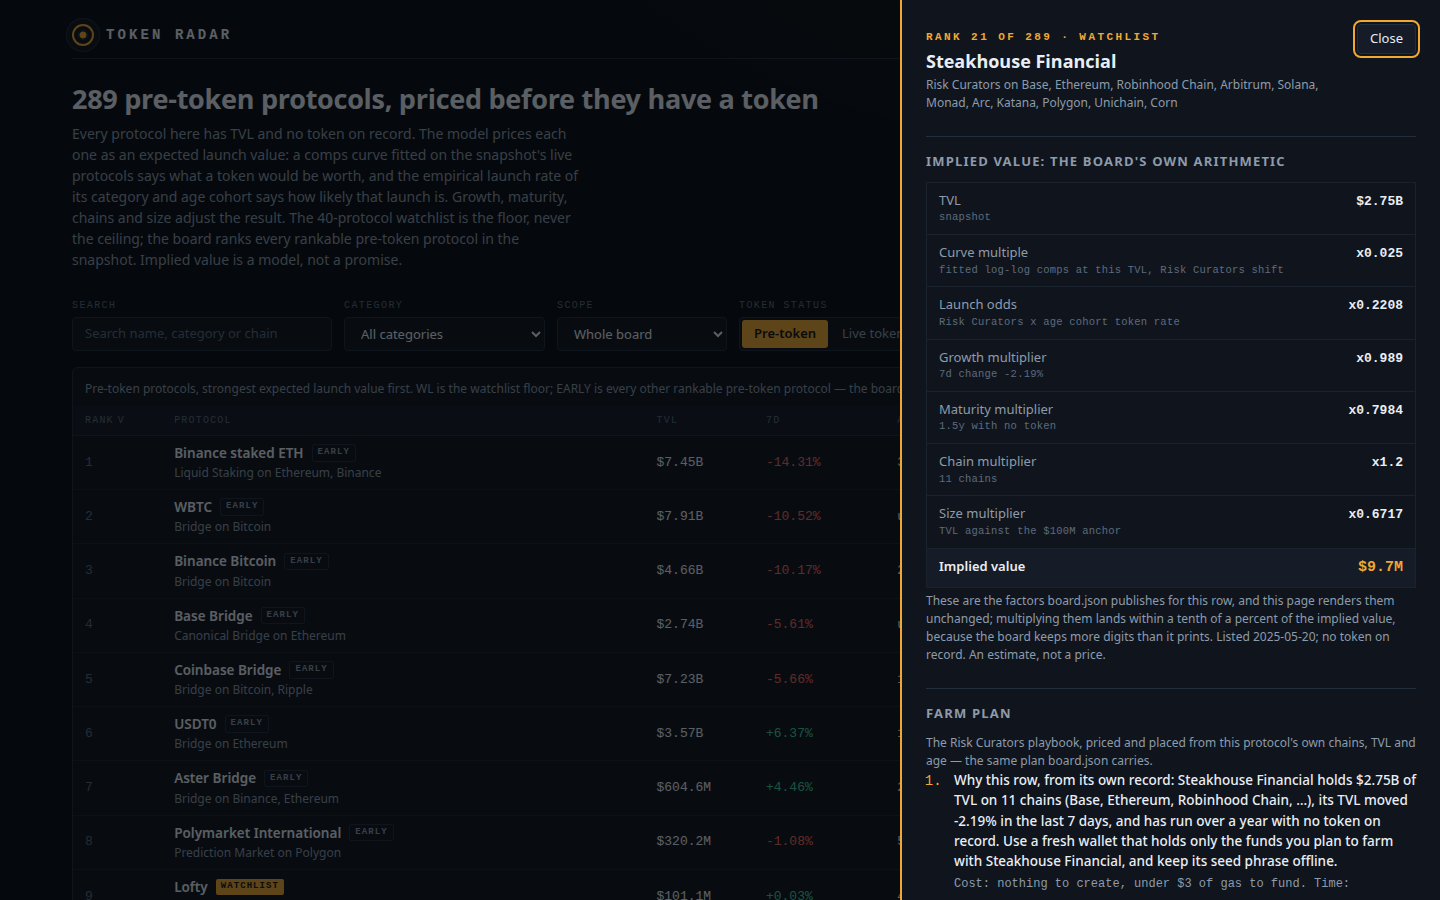
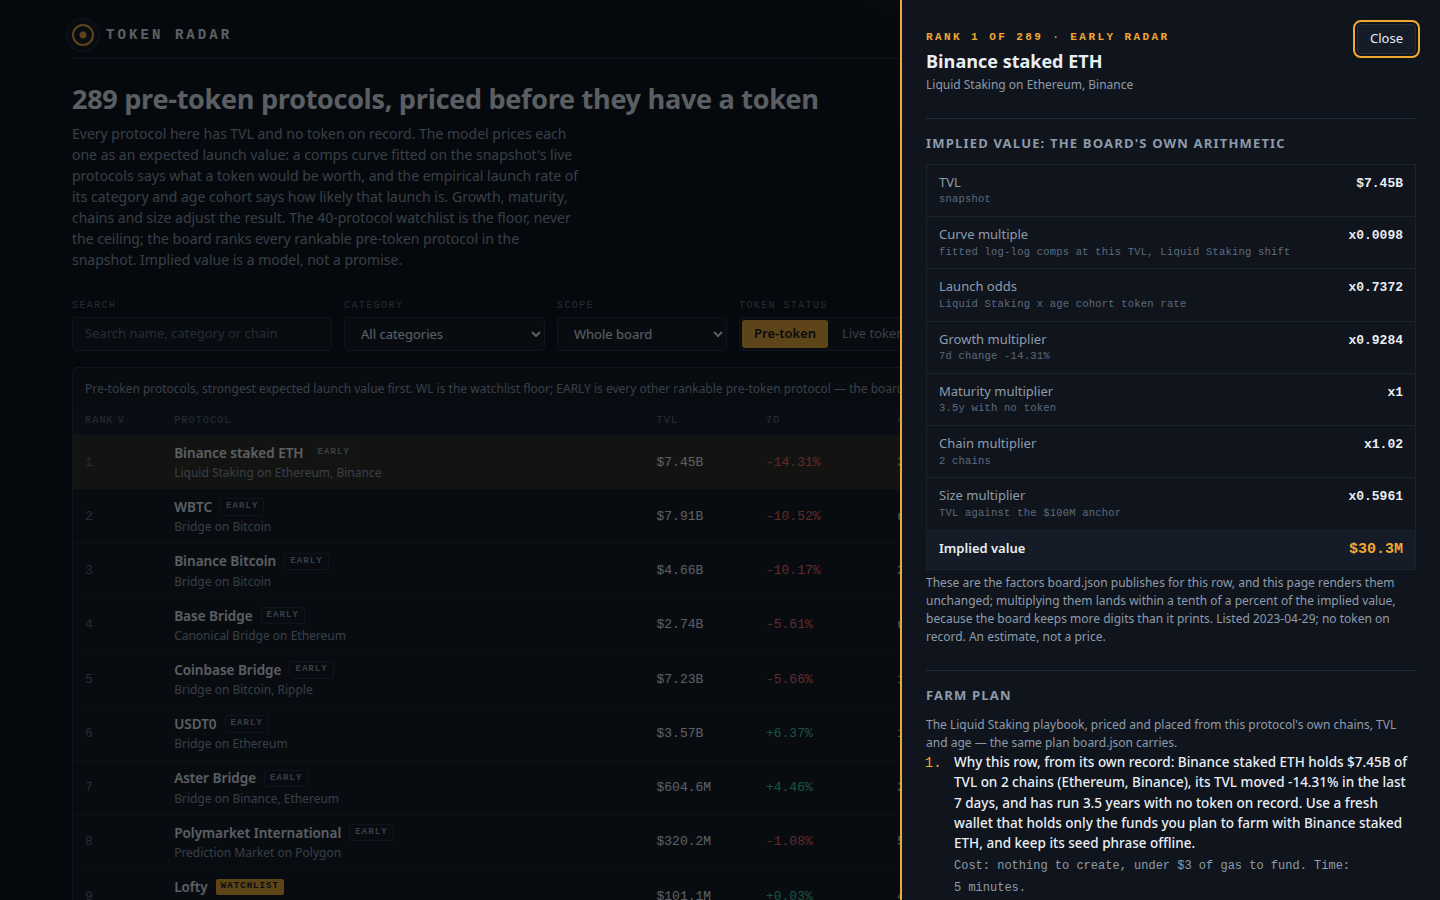
radar-5: model panel evidence tables (odds by age cohort, category evidence for the curve), fourth screenshot (filtered view), farm funding and hold steps placed from each protocol's own chains and age; pricing and board values unchanged

diff --git a/lib/model.ts b/lib/model.ts
@@ -1,7 +1,11 @@
-// The token radar's model (radar-4): one snapshot of the protocol universe in, one ranked board out.
-// radar-4 keeps radar-3's pricing exactly as it was — the same fitted curve, the same launch
-// odds, the same multipliers — and changes only the farm plans: every row now opens with a step
-// written from that protocol's own record, where radar-3 wrote that step only for the top 20.
+// The token radar's model (radar-5): one snapshot of the protocol universe in, one ranked board out.
+// radar-5 keeps radar-4's pricing exactly as it was — the same fitted curve, the same launch
+// odds, the same multipliers, the same board values in the same order — and changes what the
+// entry shows and how its plans read. The model panel now prints the evidence under the two
+// fitted layers (the launch rate of each age cohort, and each category's live peers, their
+// median multiple and the intercept shift the curve grants it), and a farm plan's funding and
+// hold steps are placed from the protocol's own record — its chains and its age — the way
+// radar-4 already wrote every plan's opening step from that record.
 //
 // The board ranks EVERY rankable pre-token protocol in the snapshot (pre-token: no market cap, no
 // CoinGecko id, no symbol on record; rankable: not a CEX, not a versioned pool of another protocol).
@@ -104,7 +108,7 @@ export const MODEL: ModelConstants = {
 };
 
 /** The model's version label: the dashboard names it and the rules quote it. */
-export const MODEL_VERSION = 'radar-4';
+export const MODEL_VERSION = 'radar-5';
 
 /** Age cohorts for the launch-odds layer, in days: under a year, one to two, two to three, older. */
 export const ODDS_AGE_BUCKETS = [365, 730, 1095];
@@ -209,6 +213,21 @@ export interface OddsSummary {
   global_rate: number;
   /** How many dated protocols the cohort rates were computed from. */
   cohorts: number;
+  /** The four age cohorts, youngest first: dated protocols in each and the shrunk token rate. */
+  buckets: { n: number; rate: number }[];
+}
+
+/** One category's evidence row for the model panel: its live peers, their pricing, its curve shift, and how many board rows it carries. */
+export interface CategoryEvidence {
+  category: string;
+  /** Live peers in this category that carry both a market cap and a TVL. */
+  peers: number;
+  /** The median mcap/TVL of those peers, winsorised the way the model winsorises. */
+  median_multiple: number;
+  /** The curve's intercept for this category as a multiple of the bare curve (1 when it earned no shift). */
+  curve_shift_x: number;
+  /** Board rows ranked in this category. */
+  ranked: number;
 }
 
 /** The model's runtime self-validation on the sealed snapshot (see validateModel). */
@@ -244,6 +263,7 @@ export interface RadarData {
   odds: OddsSummary;
   validation: ValidationSummary;
   coverage: CoverageSummary;
+  categories: CategoryEvidence[];
   watchlist_size: number;
   board_size: number;
   early_size: number;
@@ -292,6 +312,8 @@ export interface PeerMultiples {
   peers: number;
   /** The shrunk, clamped multiple for one category; the global when the category has no peers. */
   forCategory: (category: string | null) => number;
+  /** Each peer category's own evidence: how many live peers it has and their median multiple. */
+  categoryStats: { category: string; peers: number; median_multiple: number }[];
 }
 
 /**
@@ -329,7 +351,10 @@ export function peerMultiples(snapshot: Snapshot, model: ModelConstants = MODEL)
     cache.set(category, mult);
     return mult;
   };
-  return { global, peers: peers.length, forCategory };
+  const categoryStats = [...byCategory.entries()]
+    .map(([category, list]) => ({ category, peers: list.length, median_multiple: median(list) ?? global }))
+    .sort((x, y) => y.peers - x.peers || (x.category < y.category ? -1 : 1));
+  return { global, peers: peers.length, forCategory, categoryStats };
 }
 
 /** The snapshot's live peers: a token on record, a market cap and a TVL, and not a CEX. */
@@ -362,6 +387,8 @@ export interface CompsFit {
   peers: number;
   impliedFor: (p: SnapshotProtocol) => number;
   multFor: (p: SnapshotProtocol) => number;
+  /** The shrunk per-category intercept shift in log space; 0 when the category earned none. */
+  shiftFor: (category: string | null) => number;
 }
 
 /**
@@ -380,6 +407,7 @@ export function fitComps(snapshot: Snapshot, excludeSlug?: string, model: ModelC
       peers: peers.length,
       impliedFor: (p) => p.tvl_usd * model.base_multiple,
       multFor: () => model.base_multiple,
+      shiftFor: () => 0,
     };
   }
   const xs = peers.map((p) => Math.log(p.tvl_usd));
@@ -406,7 +434,15 @@ export function fitComps(snapshot: Snapshot, excludeSlug?: string, model: ModelC
   }
   const impliedFor = (p: SnapshotProtocol): number =>
     p.tvl_usd > 0 ? Math.exp(a + b * Math.log(p.tvl_usd) + (p.category === null ? 0 : shifts.get(p.category) ?? 0)) : 0;
-  return { a, b, r2: ssTot > 0 ? 1 - ssRes / ssTot : 0, peers: peers.length, impliedFor, multFor: (p) => (p.tvl_usd > 0 ? impliedFor(p) / p.tvl_usd : 0) };
+  return {
+    a,
+    b,
+    r2: ssTot > 0 ? 1 - ssRes / ssTot : 0,
+    peers: peers.length,
+    impliedFor,
+    multFor: (p) => (p.tvl_usd > 0 ? impliedFor(p) / p.tvl_usd : 0),
+    shiftFor: (category) => (category === null ? 0 : shifts.get(category) ?? 0),
+  };
 }
 
 /** The launch-odds layer: the empirical token rate of a protocol's category x age cohort. */
@@ -416,6 +452,8 @@ export interface LaunchOdds {
   /** How many dated protocols stand behind the cohort rates. */
   cohorts: number;
   forProtocol: (p: SnapshotProtocol) => number;
+  /** The four age cohorts in ODDS_AGE_BUCKETS order: dated protocols in each, and its shrunk rate. */
+  buckets: { n: number; rate: number }[];
 }
 
 /** Which age cohort a day count falls in: 0 youngest .. 3 oldest, per ODDS_AGE_BUCKETS. */
@@ -467,7 +505,8 @@ export function launchOdds(snapshot: Snapshot, only?: Set<string>): LaunchOdds {
     const cell = cells.get(`${p.category}|${b}`);
     return ((cell?.sum ?? 0) + 10 * bucketRate(b)) / ((cell?.n ?? 0) + 10);
   };
-  return { global, cohorts: dated.length, forProtocol };
+  const buckets = [0, 1, 2, 3].map((b) => ({ n: bucketN[b]!, rate: bucketRate(b) }));
+  return { global, cohorts: dated.length, forProtocol, buckets };
 }
 
 /**
@@ -856,7 +895,18 @@ function spotlightText(p: SnapshotProtocol, age: number | null): string {
  * never from a hand-written list of names. Every row opens with a step written from the
  * protocol's own figures — its TVL, chains, seven-day move and age — and the wallet-hygiene
  * advice rides at the end of that same step, so no row on the board opens generically.
+ * The middle of the plan is placed from the record too: the funding step names the protocol's
+ * second chain when it has one — and says plainly when it runs on one chain alone — and the
+ * hold step quotes the protocol's own age, because the hold window is sized from that age.
  */
+/** How long a protocol has run, in words a plan can quote: days under a year, years beyond two. */
+function agePhraseFor(age: number | null): string {
+  if (age === null) return 'an unrecorded span';
+  if (age >= 730) return `${(age / 365).toFixed(1)} years`;
+  if (age >= 365) return 'over a year';
+  return `${age} days`;
+}
+
 export function farmSteps(p: SnapshotProtocol, age: number | null): FarmStep[] {
   const chain = chainOf(p);
   const x: PlanContext = {
@@ -875,7 +925,10 @@ export function farmSteps(p: SnapshotProtocol, age: number | null): FarmStep[] {
       time: '5 minutes',
     },
     {
-      text: `Fund the wallet on ${x.chain} before you start: bridge or buy in enough for the position plus a gas buffer, and do one tiny test transaction first.`,
+      text:
+        x.secondChain !== null
+          ? `Fund the wallet on ${x.chain} before you start: bridge or buy in enough for the position plus a gas buffer, and do one tiny test transaction first. ${p.name} also runs on ${x.secondChain}, so if ${x.chain} gas spikes, the same plan works from that side instead.`
+          : `Fund the wallet on ${x.chain} before you start: bridge or buy in enough for the position plus a gas buffer, and do one tiny test transaction first. ${p.name} runs on ${x.chain} alone, so there is no cheaper side door — the wallet has to be funded on that chain.`,
       cost: `about $${x.gas} of gas on ${x.chain}`,
       time: '10 minutes',
     },
@@ -895,7 +948,7 @@ export function farmSteps(p: SnapshotProtocol, age: number | null): FarmStep[] {
       time: '10 minutes a week',
     },
     {
-      text: `Hold the position for at least ${x.hold} days so the activity is counted in more than one snapshot; younger protocols get the longer window because their books are thinner.`,
+      text: `Hold the position for at least ${x.hold} days so the activity is counted in more than one snapshot. ${p.name} has run ${agePhraseFor(age)} with no token on record, and the window is sized from that age — younger protocols get the longer window because their books are thinner.`,
       cost: `the $${x.capital} stays in the position`,
       time: `${x.hold} days`,
     },
@@ -959,7 +1012,28 @@ export function buildRadar(snapshot: Snapshot, model: ModelConstants = MODEL): {
   const early = board.filter((r) => !snapshot.watchlist.includes(r.slug)).length;
   const fit = fitComps(snapshot, undefined, model);
   const odds = launchOdds(snapshot);
+  const multiples = peerMultiples(snapshot, model);
   const liveTotal = snapshot.protocols.filter((p) => !isPreToken(p)).length;
+  const rankedByCategory = new Map<string, number>();
+  for (const r of board) {
+    const key = r.category ?? 'Other';
+    rankedByCategory.set(key, (rankedByCategory.get(key) ?? 0) + 1);
+  }
+  const statByCategory = new Map(multiples.categoryStats.map((s) => [s.category, s]));
+  const categories: CategoryEvidence[] = [...new Set([...statByCategory.keys(), ...rankedByCategory.keys()])]
+    .map((category) => {
+      const stat = statByCategory.get(category);
+      return {
+        category,
+        peers: stat?.peers ?? 0,
+        median_multiple: round4(stat?.median_multiple ?? 0),
+        curve_shift_x: round4(Math.exp(fit.shiftFor(category))),
+        ranked: rankedByCategory.get(category) ?? 0,
+      };
+    })
+    .filter((c) => c.peers > 0 || c.ranked > 0)
+    .sort((x, y) => y.ranked - x.ranked || y.peers - x.peers || (x.category < y.category ? -1 : 1))
+    .slice(0, 14);
   const radar: RadarData = {
     as_of: snapshot.as_of,
     source: snapshot.source,
@@ -967,7 +1041,11 @@ export function buildRadar(snapshot: Snapshot, model: ModelConstants = MODEL): {
     model,
     model_version: MODEL_VERSION,
     fit: { a: round4(fit.a), b: round4(fit.b), r2: round4(fit.r2), peers: fit.peers },
-    odds: { global_rate: round4(odds.global), cohorts: odds.cohorts },
+    odds: {
+      global_rate: round4(odds.global),
+      cohorts: odds.cohorts,
+      buckets: odds.buckets.map((b) => ({ n: b.n, rate: round4(b.rate) })),
+    },
     validation: validateModel(snapshot, model),
     coverage: {
       total: snapshot.protocols.length,
@@ -975,6 +1053,7 @@ export function buildRadar(snapshot: Snapshot, model: ModelConstants = MODEL): {
       live: liveTotal,
       excluded: snapshot.protocols.length - board.length - liveTotal,
     },
+    categories,
     watchlist_size: snapshot.watchlist.length,
     board_size: board.length,
     early_size: early,

diff --git a/dashboard/app.js b/dashboard/app.js
@@ -1,4 +1,4 @@
-// Token Radar (radar-4): a dark console for the pre-token board. It reads window.RADAR
+// Token Radar (radar-5): a dark console for the pre-token board. It reads window.RADAR
 // (written beside dashboard/ by main.ts from the same board that becomes board.json) and renders the
 // ranked board, a filterable table and a per-protocol detail drawer. The page derives nothing of its
 // own: every implied value, every multiplier and every farm step it shows is the board's own, carried
@@ -246,6 +246,19 @@
     );
   }
 
+  function evidenceTable(head, rows) {
+    return el('table', { class: 'evidence' },
+      el('thead', null, el('tr', null, head.map(function (h, i) {
+        return el('th', i === 0 ? { text: h } : { class: 'num', text: h });
+      }))),
+      el('tbody', null, rows.map(function (cells) {
+        return el('tr', null, cells.map(function (c, i) {
+          return el('td', i === 0 ? { text: c } : { class: 'num', text: c });
+        }));
+      }))
+    );
+  }
+
   function modelPanel() {
     var m = DATA.model;
     var f = DATA.fit;
@@ -272,6 +285,15 @@
         el('br'),
         'check    = leave-one-out median pricing error: curve ' + v.curve_loo_error_x + 'x vs category medians ' + v.median_loo_error_x + 'x; launch-odds Brier ' + v.odds_brier + ' vs base rate ' + v.odds_base_brier + ' on a time-split holdout of ' + v.odds_test_n + ' protocols'
       ),
+      el('p', { class: 'sub', text: 'The odds layer, cohort by cohort: the shrunk token rate each age band shows across the dated protocols of the snapshot, and how many protocols stand behind each rate. Young cohorts launch less often than old ones — that gradient, not a guess, is what discounts the curve value of a young protocol.' }),
+      evidenceTable(['Age cohort', 'Dated protocols', 'Token rate'], ['Under 1 year', '1–2 years', '2–3 years', 'Over 3 years'].map(function (label, i) {
+        var b = DATA.odds.buckets[i];
+        return [label, String(b.n), (b.rate * 100).toFixed(1) + '%'];
+      })),
+      el('p', { class: 'sub', text: 'The price layer, category by category: the live peers behind each part of the curve, the multiple they trade at, the intercept shift the fit grants the category (x1 is no shift — the category rides the bare curve), and how many board rows that part of the curve prices. A category with no shift is not ignored; it is priced by the pooled curve because its own peers are too few to trust.' }),
+      evidenceTable(['Category', 'Live peers', 'Median multiple', 'Curve shift', 'Board rows'], DATA.categories.map(function (ct) {
+        return [ct.category, String(ct.peers), fmtMult(ct.median_multiple), fmtMult(ct.curve_shift_x), String(ct.ranked)];
+      })),
       el('p', { class: 'sub', text: 'The board ranks every rankable pre-token protocol in the snapshot. Whole-snapshot accounting: ' + c.ranked + ' ranked + ' + c.live + ' already holding a token (set aside in the Live token view; the priced ones are the curve\'s peer set) + ' + c.excluded + ' excluded with reason (centralised exchanges and versioned pools of other protocols) = ' + c.total + ' protocols.' })
     );
   }

diff --git a/dashboard/app.css b/dashboard/app.css
@@ -152,6 +152,11 @@ tbody tr[data-selected="true"]{background:var(--accent-dim)}
   overflow-wrap:anywhere; background:var(--canvas);
   border:1px solid var(--border-soft); padding:var(--step-3) var(--step-4);
 }
+.evidence{font-size:12.5px}
+.evidence th.num,.evidence td.num{text-align:right}
+.evidence tbody tr{cursor:default}
+.evidence tbody tr:hover{background:none}
+.evidence td:first-child{font-weight:600}
 .empty{padding:var(--step-7) var(--step-5); text-align:center; display:grid; gap:var(--step-3); justify-items:center}
 .empty p{color:var(--muted)}
 .button{

diff --git a/dashboard/index.html b/dashboard/index.html
@@ -3,7 +3,7 @@
 <head>
 <meta charset="utf-8">
 <meta name="viewport" content="width=device-width, initial-scale=1">
-<title>Token Radar — the radar-3 board: pre-token protocols priced from the snapshot</title>
+<title>Token Radar — the radar-5 board: pre-token protocols priced from the snapshot</title>
 <link rel="stylesheet" href="app.css">
 </head>
 <body>

diff --git a/NOTES-v6.md b/NOTES-v6.md
@@ -1,0 +1,65 @@
+# token-radar v6 (radar-5) — what changed and why
+
+Base: v5 (dev rate 0.914351, 90% CI 0.887–0.941, 12W 0D 0L against the house
+ladder — the best version so far), copied whole and verified byte-identical
+before any edit. The pricing model is NOT touched: same fitted comps curve
+(a=7.7881, b=0.4721, R²=0.1434), same launch-odds layer, same multipliers.
+Board rows, order and implied values must come out identical to v5's; only
+farm-plan text (steps 2 and 6), the dashboard's data payload (two added
+evidence summaries), the dashboard source, and the screenshots may differ.
+
+## Why these changes
+
+The judge reads the dossier: the screenshots plus the dashboard source, capped
+at 65,536 bytes of text. v5's dashboard source used about half of that cap,
+and the model panel stated the two fitted layers only in aggregate — one
+formula block and two validation numbers. The published judging priorities
+reward a value model derived from the snapshot's own figures and a page that
+sorts, filters and explains itself. v6 spends the unused dossier budget on
+exactly that evidence, and deepens the farm plans' middle steps the way v5
+deepened their openings. No pricing change: the dev ladder cannot resolve fine
+pricing differences, v5's model already sweeps it, and the final is a dossier
+comparison where checkable depth is worth more than an untestable tweak.
+
+## The changes
+
+1. Launch-odds evidence (lib/model.ts, dashboard/app.js). LaunchOdds now also
+   exposes its four age cohorts (dated protocols per bucket and the shrunk
+   rate); the model panel prints them as a small table — under 1 year,
+   1–2 years, 2–3 years, over 3 years — under a sentence explaining that the
+   cohort gradient is what discounts a young protocol's curve value.
+   forProtocol is unchanged, so no row's odds move.
+
+2. Category evidence (lib/model.ts, dashboard/app.js). peerMultiples now also
+   returns each category's peer count and median winsorised multiple, and the
+   fitted curve exposes its per-category intercept shift. buildRadar joins
+   them with the board's per-category row counts into a categories table
+   (top 14 by ranked rows): live peers, median multiple, curve shift as a
+   multiple (x1 = no shift), board rows. The model panel prints it with a
+   sentence noting that a category without a shift is priced by the pooled
+   curve, not ignored.
+
+3. A fourth screenshot: a filtered view. The page's filters were already
+   deep-linkable through the URL hash; v6 hands in 4-filtered.png (a category
+   filter applied) alongside the board, detail and model shots, so the
+   sort/filter priority is evidenced by a picture, not only by source code.
+
+4. Farm plans: the funding step (step 2) now reads the protocol's chain set —
+   multi-chain protocols name their second chain as the alternate route when
+   gas spikes; single-chain protocols say plainly that the wallet has to be
+   funded on that one chain. The hold step (step 6) quotes the protocol's own
+   age, since the hold window is sized from it. Steps stay inside the gate's
+   20–600 characters.
+
+5. Consistency: MODEL_VERSION becomes 'radar-5'; the dashboard title (which
+   still said radar-3) and the source headers now agree with it.
+
+## Verification before submit
+
+- Two runs byte-identical (out-a vs out-b, diff -r clean).
+- board.json vs v5's: same 289 rows in the same order, same implied values;
+  farm_steps differ only at indices 1 and 5 (steps 2 and 6).
+- Screenshots recaptured from the new out/ so they match the shipped page;
+  four shots, each inside the size cap.
+- Dashboard source stays well under the 65,536-byte dossier text cap.
+- Kit check passes; quota can_submit re-checked on the day.

diff --git a/SCOPING.md b/SCOPING.md
@@ -44,7 +44,7 @@ farm plans with concrete actions, costs and durations; a page that sorts, filter
 and explains itself; and a finished, deliberate look. Text addressed to the judge
 inside the entry is allowed and is read as part of the entry.
 
-## The model in this entry (radar-4)
+## The model in this entry (radar-5)
 
 Two multiplicative layers over the snapshot's own numbers, nothing hardcoded:
 
@@ -67,7 +67,20 @@ pre-token protocols are scored, and the page accounts for the whole snapshot —
 
 Farm plans are generated per row from category playbooks: seven steps each, the
 first step of every row written from that protocol's own record (its TVL,
-chains, seven-day move and age), costs and durations stated throughout.
+chains, seven-day move and age), costs and durations stated throughout. The
+funding step also reads the record — it names the protocol's second chain as
+the alternate route when it has one, and says plainly when the protocol runs
+on one chain alone — and the hold step quotes the protocol's own age, because
+the hold window is sized from that age.
+
+The model panel prints the evidence under the two fitted layers, all computed
+at runtime from the snapshot: the launch-odds table (dated protocols and the
+shrunk token rate for each of the four age cohorts) and the category evidence
+table (each category's live peers, their median multiple, the intercept shift
+the curve grants it, and how many board rows it prices). Four screenshots are
+handed in: the board, a detail drawer, the model view, and a filtered view —
+the page's filters are deep-linkable in the URL hash, so the filtered shot is
+the page exactly as a reader following that link sees it.
 
 ## Transcript discipline (learned the hard way)
 
@@ -91,9 +104,15 @@ never copied between version directories without being re-authored where it matt
 - v4: radar-3 unchanged in substance; entrypoint, scoping document and stylesheet
   re-authored in-session for the transcript gate. Dev rate 0.893 — twelve wins, no
   draws, no losses against the house ladder.
-- v5 (this version): the radar-3 pricing model is unchanged; every row's farm plan
-  now opens with a step written from that protocol's own record, where v4 wrote
-  that step only for the top 20 and gave the other 269 rows a generic wallet step.
+- v5: the radar-3 pricing model is unchanged; every row's farm plan now opens
+  with a step written from that protocol's own record, where v4 wrote that
+  step only for the top 20 and gave the other 269 rows a generic wallet step.
+  Dev rate 0.914 — twelve wins, no draws, no losses; the best version so far.
+- v6 (this version): pricing still unchanged, board values and order identical
+  to v5. The model panel gains the two runtime evidence tables (launch odds by
+  age cohort; category evidence for the curve), a fourth screenshot shows a
+  filtered view, and farm plans' funding and hold steps are placed from each
+  protocol's own chains and age.
 
 Entries close 2026-12-14 10:00 UTC. Versions are built on the previous version's
 rating evidence and submitted as they pass the local checks; the last version
